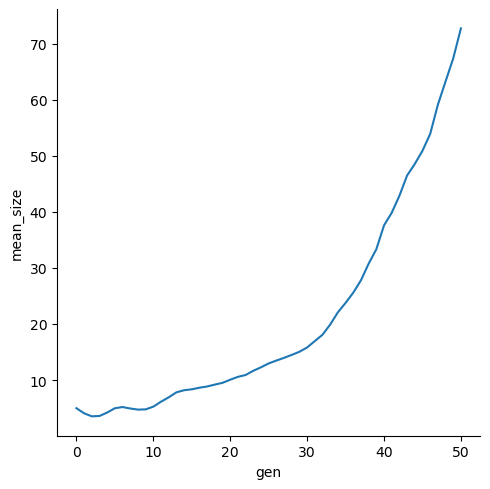
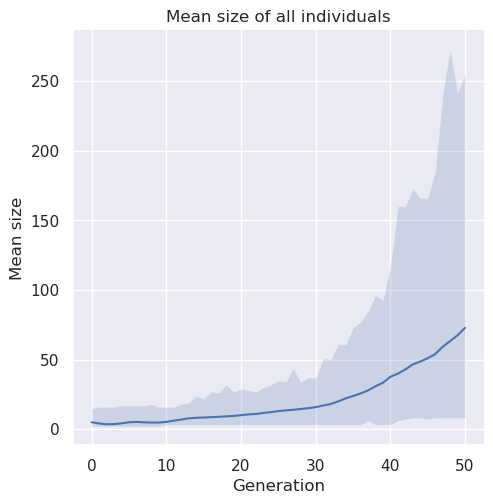
Finish 8, edit readme with some extra info

diff --git a/1/assignment_1.tex b/1/assignment_1.tex
@@ -2,6 +2,8 @@
 \usepackage[utf8]{inputenc}
 \usepackage{amsmath}
 \usepackage{amssymb}
+\usepackage{graphicx}
+\usepackage{hyperref}
 
 %opening
 \title{Assignment 1}
@@ -10,6 +12,8 @@
 \begin{document}
 
 \maketitle
+Note: you can find the github repository at
+\url{github.com/dspijkers/nacu}.
 
 \section{}
 Schemata A1 has more wildcards than A2: $o(A1) < o(A2)$. Since both schemata have the same amount of bits, the chance of a non-wildcard bit flipping in A1 is less than the chance of that happening in A2.
@@ -43,5 +47,32 @@ Mathematically, this can be computed as follows (with $p_m=0.01$):
 \end{itemize}
 
 \section*{8}
+We used the DEAP python framework. Any individuals with errors (so, if it
+tried to divide by 0, or log -1) were given fitness $-\infty$. For the
+implementation see \emph{8/code.py}, and to generate the plots simply run
+\emph{8/plots.py}. (both in the github repository linked at the start of
+this file)
+
+\begin{figure}
+  \includegraphics[width=0.5\textwidth]{8/score_best}
+
+  \includegraphics[width=0.5\textwidth]{8/size_best}
+
+  \includegraphics[width=0.5\textwidth]{8/mean_size}
+\end{figure}
+
+%TODO: maybe add a proper reference using a reference manager.
+We do in fact see a undesirable phenomenon: bloat. Two techniques to
+prevent this are given in the Javed, Noman, and Fermand Gobet paper, which
+is also referenced in the lecture slides (page 47).
+
+These techniques are generationwide simplification (gws) and pruning. In
+gws every kth generation (for some k) we simplify the trees. Instead of
+producing offspring from mutation or crossover, we generate offspring by
+selecting subtrees.
+
+Pruning is a similar idea, but instead of doing it populationwide, we pick
+the top few percent fittest individuals, and replace them by the fittest
+out of some generated set of subtrees.
 
 \end{document}

diff --git a/1/8/plots.py b/1/8/plots.py
@@ -11,27 +11,48 @@ mean_size, max_size, min_size = log.chapters["size"].select(
     "mean", "max", "min"
 )
 
-df = pd.DataFrame({
-    "best": fitness[:, 0],
-    "size": fitness[:, 1],
-    "mean_size": mean_size,
-    "max_size": max_size,
-    "min_size": min_size
+df = (
+    pd.DataFrame({
+        "fitness": fitness[:, 0],
+        "size": fitness[:, 1],
+        "mean_size": mean_size,
+        "max_size": max_size,
+        "min_size": min_size
 
-}).reset_index().rename(columns={"index": "gen"})
+    }).reset_index()
+    .rename(columns={"index": "gen"})
+    .assign(
+        # we minimized the positive value of the fitness, but in the
+        # exercise they defined it as a negative value
+        fitness=lambda x: -x["fitness"]
+    )
+)
 
-sns.relplot(
+
+sns.set_theme()
+
+g = sns.relplot(
     data = df, kind="line",
-    x = "gen", y = "best"
-).savefig("score_best.png")
+    x = "gen", y = "fitness"
+)
+g.set_axis_labels("Generation", "Fitness")
+g.ax.set_title("Fitness of best individual")
+g.savefig("score_best.png")
 
-sns.relplot(
+g = sns.relplot(
     data=df, kind="line",
     x="gen", y="size"
-).savefig("size_best.png")
+)
+g.set_axis_labels("Generation", "Size of best individual")
+g.ax.set_title("Size of best individual")
+g.savefig("size_best.png")
 
-#TODO: add max and min to it
-sns.relplot(
+g = sns.relplot(
     data=df, kind="line",
-    x="gen", y="mean_size"
-).savefig("mean_size.png")
+    x="gen", y="mean_size",
+)
+
+g.ax.fill_between(df['gen'].to_numpy(), df['max_size'], df['min_size'], alpha=0.2)
+g.set_axis_labels("Generation", "Mean size")
+g.ax.set_title("Mean size of all individuals")
+g.savefig("mean_size.png")

diff --git a/README.md b/README.md
@@ -1,1 +1,9 @@
-# nacu
+# Nacu group 11
+We've written our code in python. You can download the packages either
+using the python poetry setup available here, or you can download them
+with whatever package manager you prefer. In that case, please look at
+[pyproject](pyproject.toml) for the required packages.
+
+Each assignment is in its own folder, and instructions on how to generate
+the exact output (should) be described in our answer for the relevant
+exercise.
